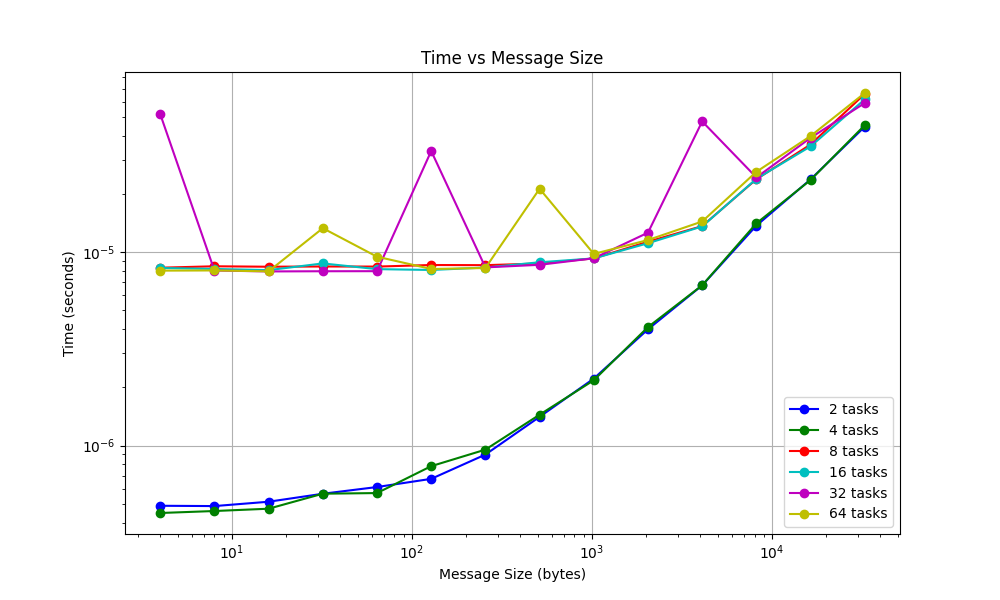
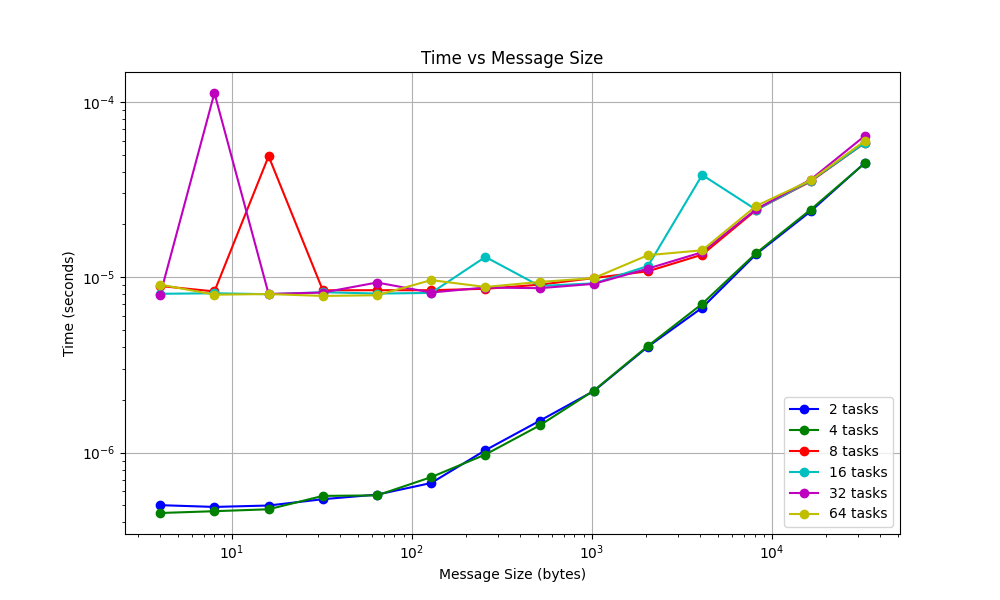
Updated and added files
Added plot for Q4 bandwidth
Updated plotting python file
Updated old Q4 time plot

diff --git a/plot_data.py b/plot_data.py
@@ -4,7 +4,7 @@ import math
 data = {}
 c=['b','g','r','c','m','y']
 for i in range(6):
-    data[2**(i+1)] = [([],[]) for _ in range(i+1)]
+    data[2**(i+1)] = [([],[],[]) for _ in range(i+1)]
 
 with open("./results.txt", 'r') as file:
     for line in file:
@@ -15,8 +15,10 @@ with open("./results.txt", 'r') as file:
         messageSize = int(parts[1])
         shifts = int(parts[2])
         time = float(parts[3])
+        bandwidth = (2 * float(messageSize)) / time
         data[tasks][int(math.log2(shifts))][0].append(messageSize*2)
         data[tasks][int(math.log2(shifts))][1].append(time)
+        data[tasks][int(math.log2(shifts))][2].append(bandwidth)
 
 plt.figure(figsize=(10, 6))
 plt.yscale("log")
@@ -31,3 +33,17 @@ for tasks in data:
     i += 1
 plt.legend()
 plt.savefig("./Q4_plot.png")
+
+plt.figure(figsize=(10, 6))
+plt.yscale("log")
+plt.xscale("log")
+plt.title(f"Bandwidth vs Message Size")
+plt.xlabel('Message Size (bytes)')
+plt.ylabel('Bandwidth (bytes/second)')
+plt.grid(True)
+i = 0
+for tasks in data:
+    plt.plot(data[tasks][0][0], data[tasks][0][2], marker='o', color=c[i], linestyle='-', label=f"{tasks} tasks")
+    i += 1
+plt.legend()
+plt.savefig("./Q4_plot_bandwidth.png")
